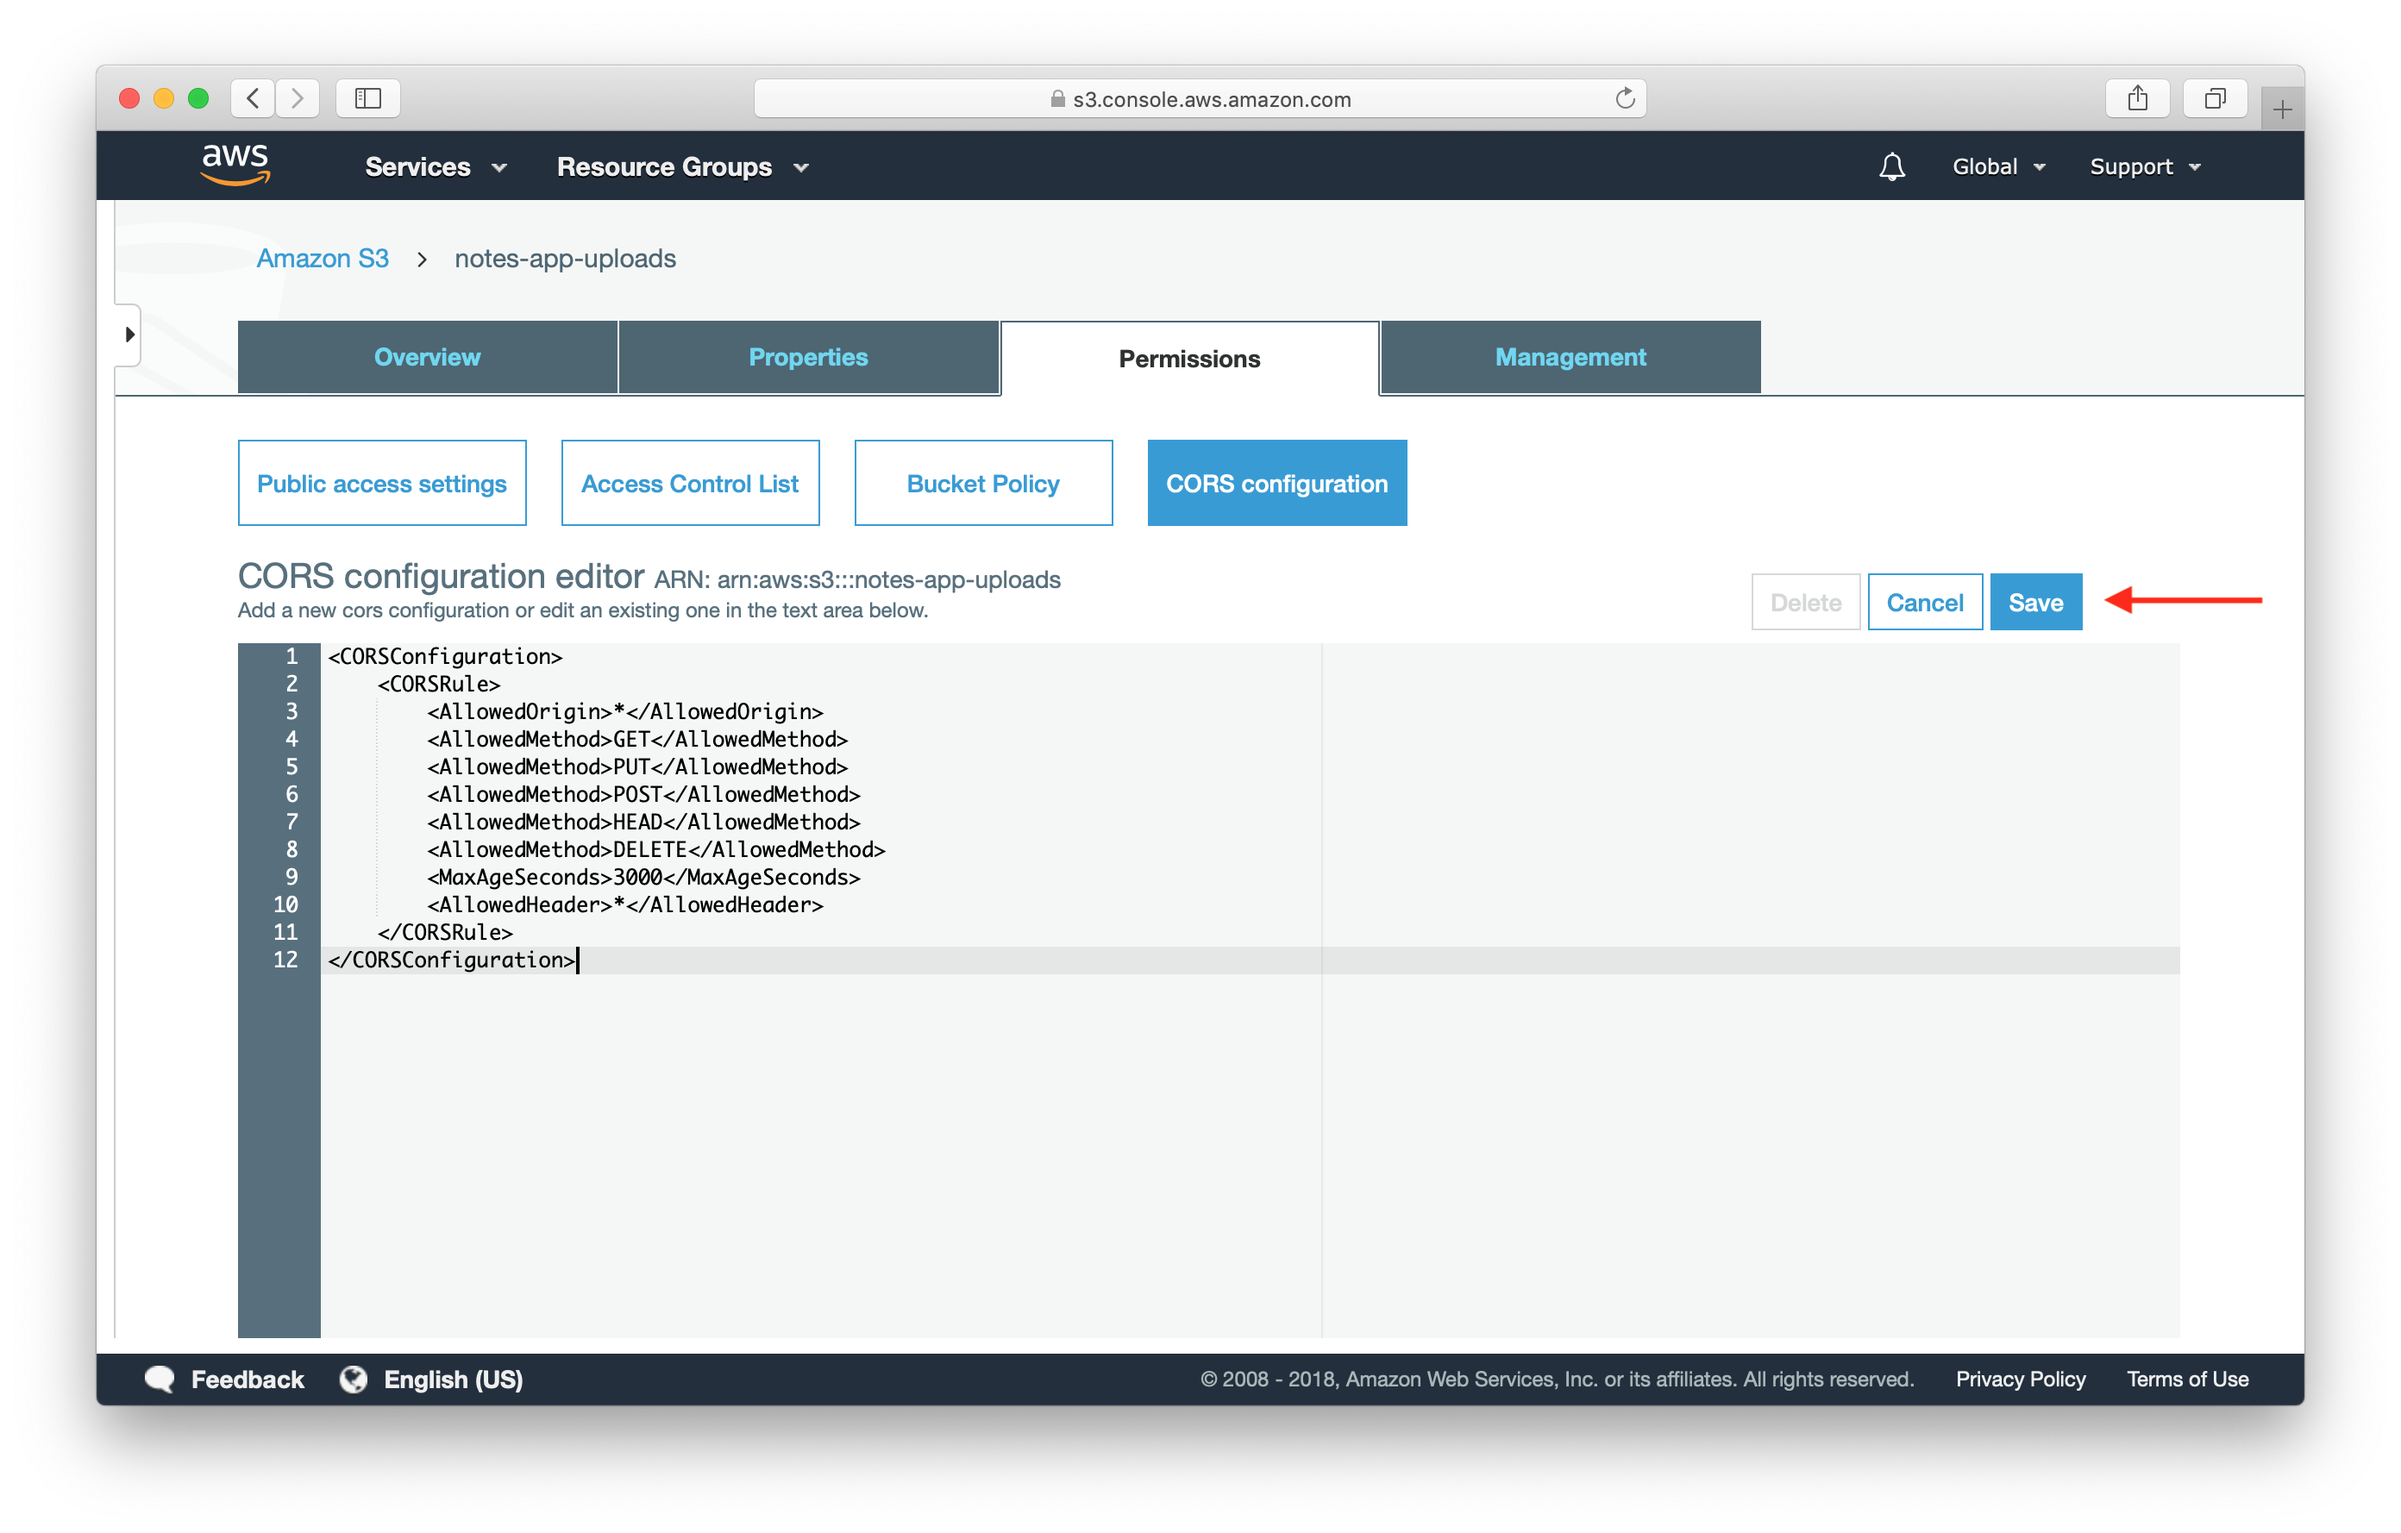
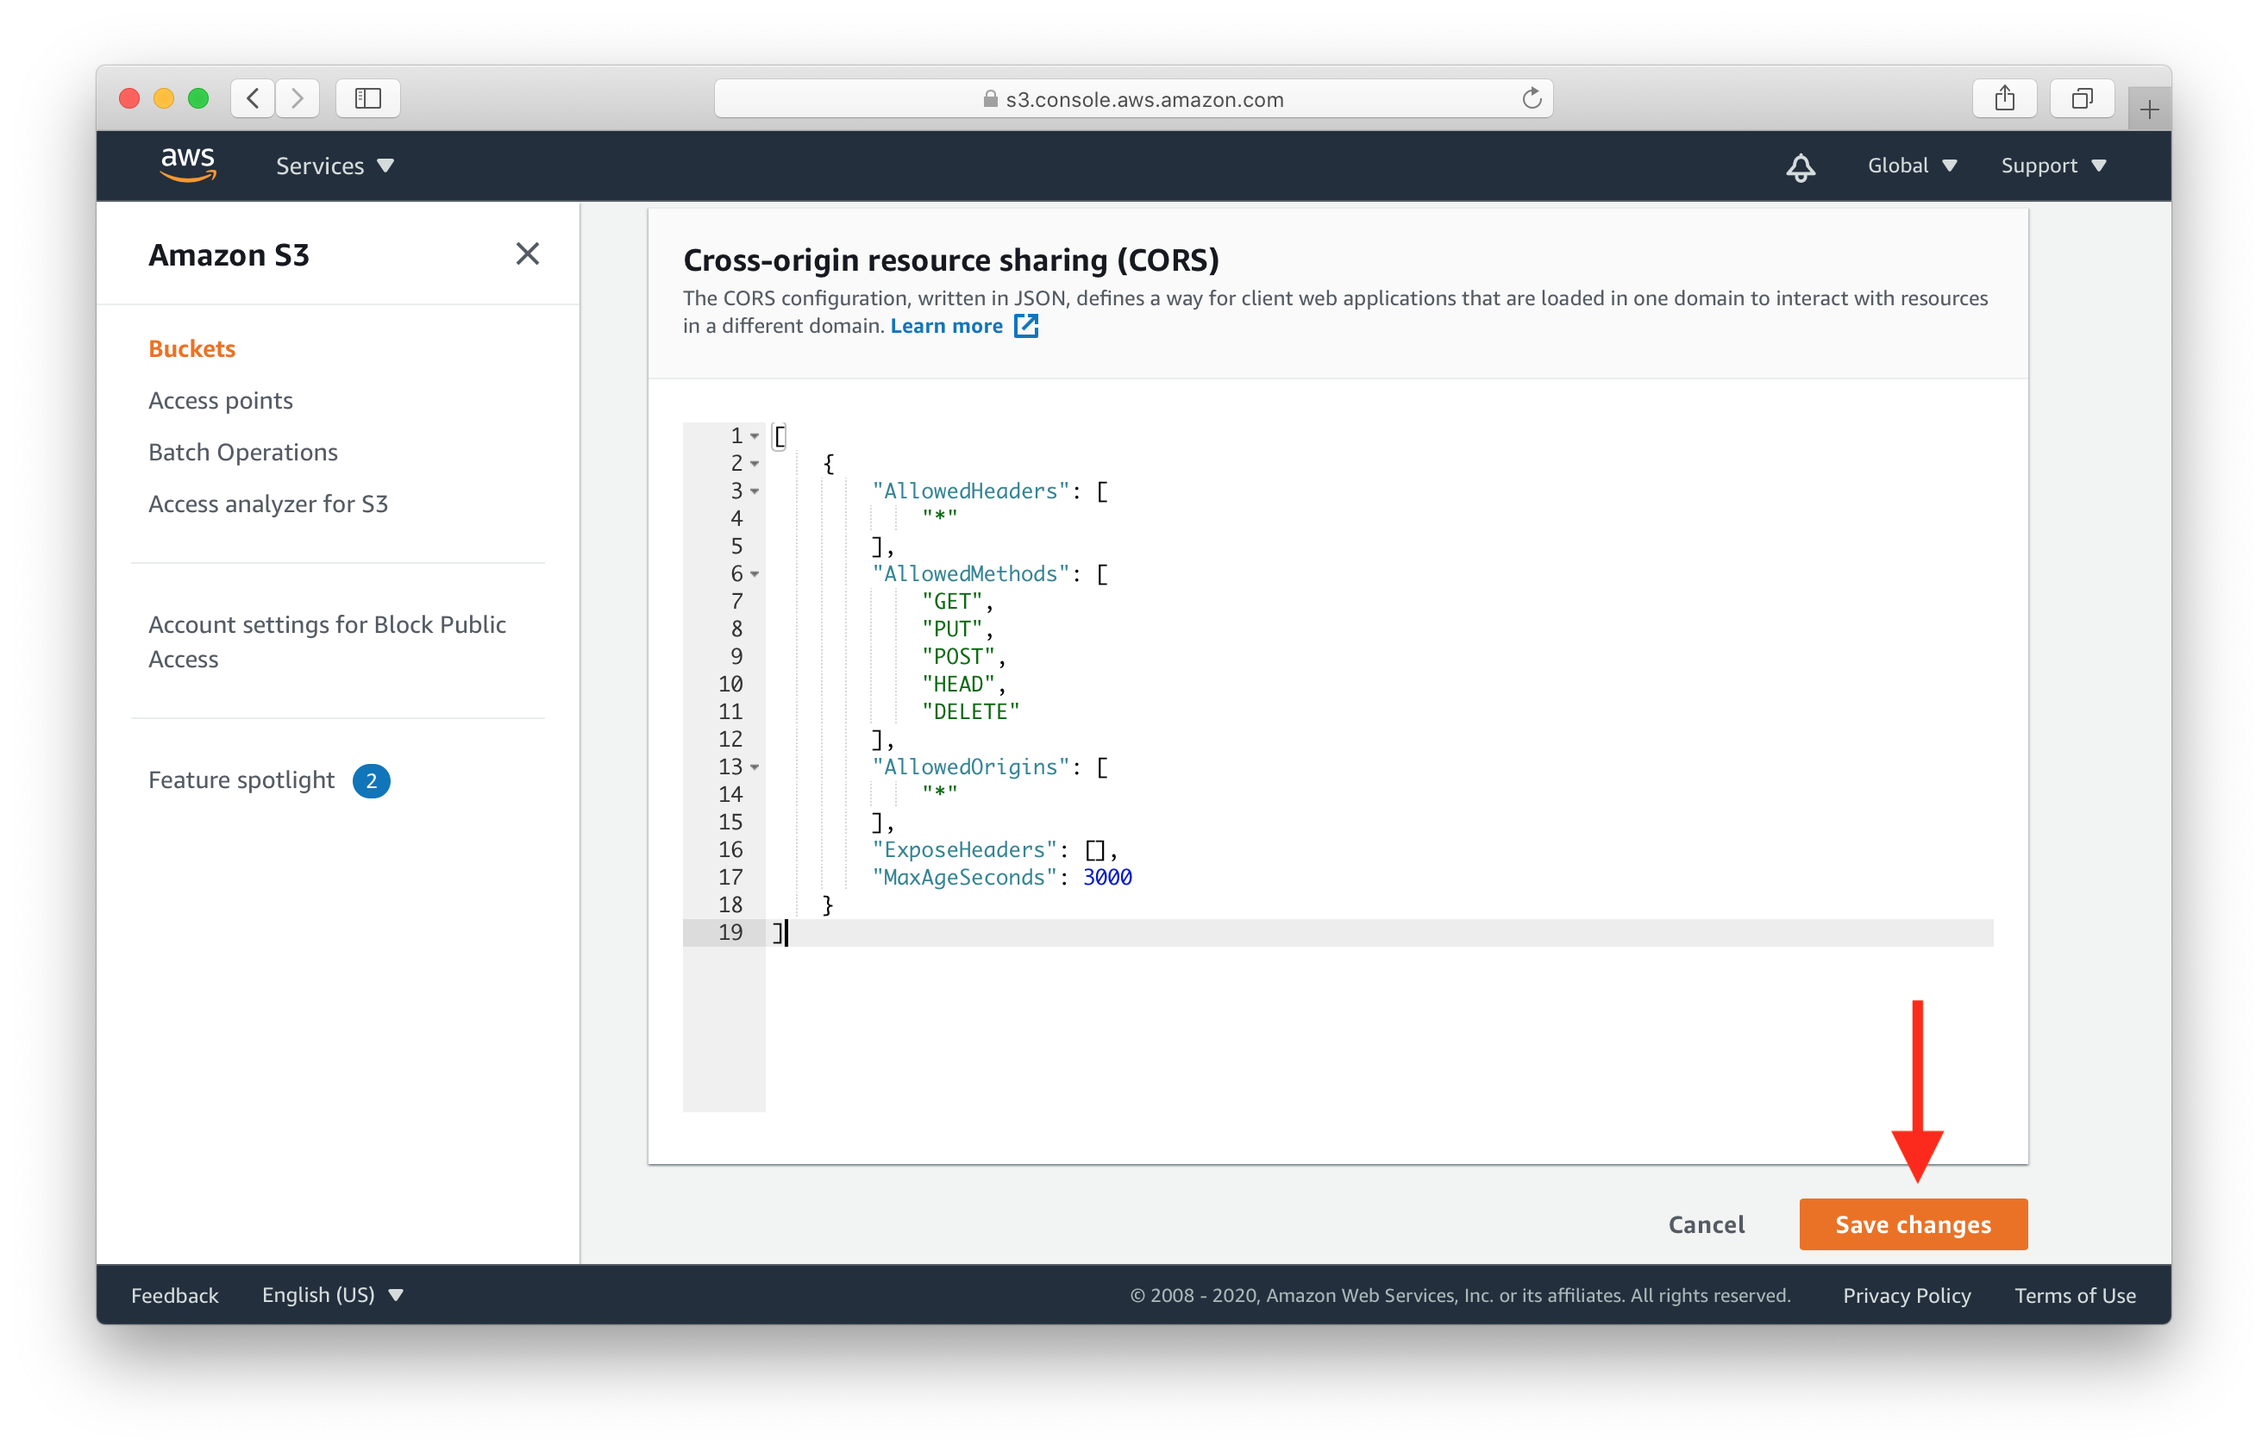
Updating S3 bucket CORS steps

diff --git a/_chapters/handle-cors-in-s3-for-file-uploads.md b/_chapters/handle-cors-in-s3-for-file-uploads.md
@@ -14,25 +14,36 @@ Go back to the AWS Console and head over to the S3 section. Then, select the buc
 
 ![Select Created S3 Bucket screenshot](/assets/s3/select-created-s3-bucket.png)
 
-Select the **Permissions** tab, then select **CORS configuration**.
+Select the **Permissions** tab
 
-![Select S3 Bucket CORS Configuration screenshot](/assets/s3/select-s3-bucket-cors-configuration.png)
+![Select S3 Bucket Permissions tab](/assets/s3/select-s3-bucket-permissions-tab.png)
 
-Add the following CORS configuration into the editor, then hit **Save**.
+Then scroll down to the **Cross-origin resource sharing (CORS)** section and hit **Edit**.
 
-``` xml
-<CORSConfiguration>
-	<CORSRule>
-		<AllowedOrigin>*</AllowedOrigin>
-		<AllowedMethod>GET</AllowedMethod>
-		<AllowedMethod>PUT</AllowedMethod>
-		<AllowedMethod>POST</AllowedMethod>
-		<AllowedMethod>HEAD</AllowedMethod>
-		<AllowedMethod>DELETE</AllowedMethod>
-		<MaxAgeSeconds>3000</MaxAgeSeconds>
-		<AllowedHeader>*</AllowedHeader>
-	</CORSRule>
-</CORSConfiguration>
+![Scroll to S3 Bucket CORS Configuration screenshot](/assets/s3/scroll-to-s3-bucket-cors-configuration.png)
+
+Paste the following CORS configuration into the editor, then hit **Save changes**.
+
+``` json
+[
+    {
+        "AllowedHeaders": [
+            "*"
+        ],
+        "AllowedMethods": [
+            "GET",
+            "PUT",
+            "POST",
+            "HEAD",
+            "DELETE"
+        ],
+        "AllowedOrigins": [
+            "*"
+        ],
+        "ExposeHeaders": [],
+        "MaxAgeSeconds": 3000
+    }
+]
 ```
 
 ![Save S3 Bucket CORS Configuration screenshot](/assets/s3/save-s3-bucket-cors-configuration.png)

diff --git a/_chapters/create-an-s3-bucket-for-file-uploads.md b/_chapters/create-an-s3-bucket-for-file-uploads.md
@@ -34,11 +34,9 @@ Make a note of the name and region as we'll be using it later in the guide.
 
 ![Enter S3 Bucket Info screenshot](/assets/s3/enter-s3-bucket-info.png)
 
-Step through the next steps and leave the defaults by clicking **Next**, and then click **Create bucket** on the last step.
+Then scroll all the way down and click **Create bucket**.
 
-![Set S3 Bucket Properties screenshot](/assets/s3/set-s3-bucket-properties.png)
-![Set S3 Bucket Permissions screenshot](/assets/s3/set-s3-bucket-permissions.png)
-![Review S3 Bucket screenshot](/assets/s3/review-s3-bucket.png)
+![Click create S3 Bucket screenshot](/assets/s3/click-create-s3-bucket.png)
 
 This should create your new S3 bucket.
 
